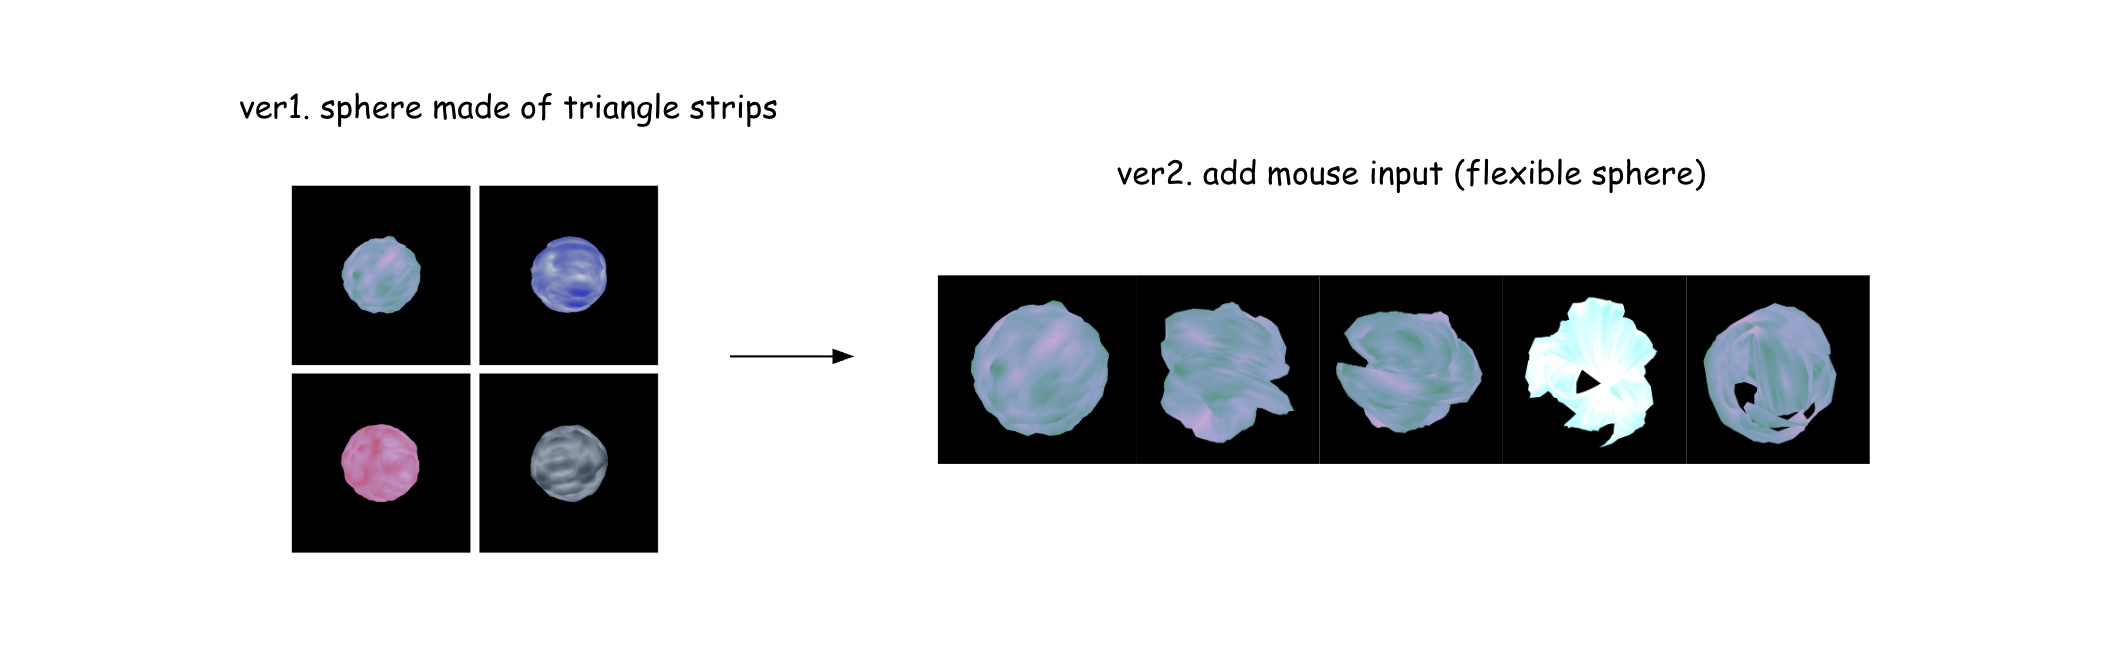
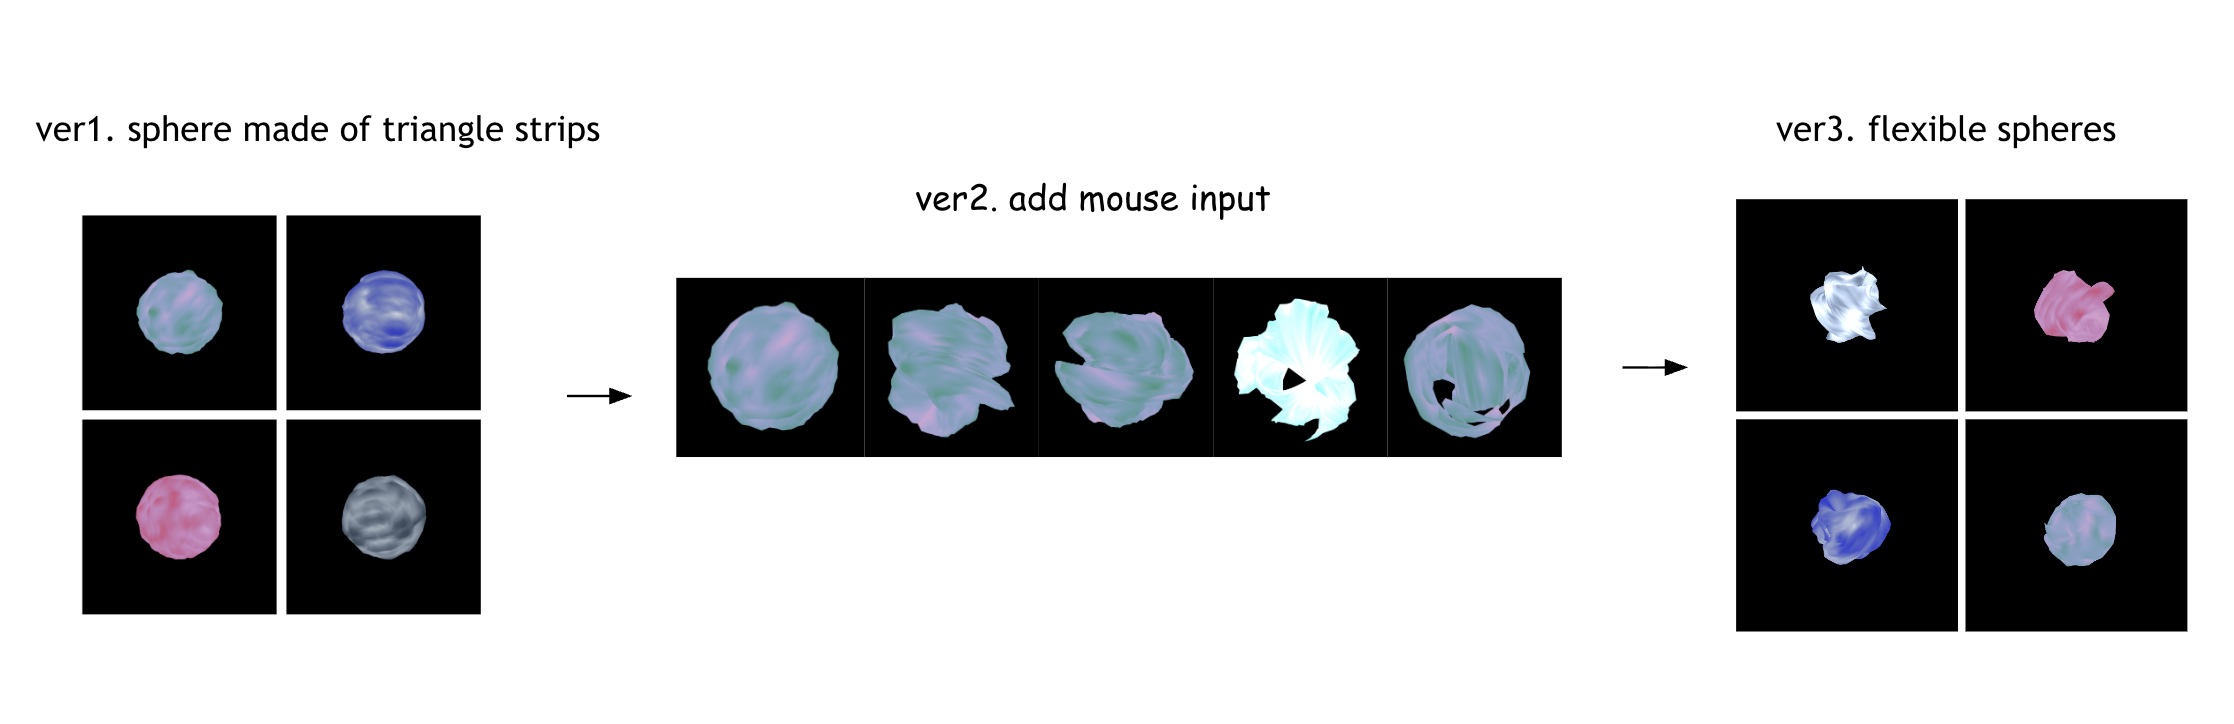
Update images

diff --git a/works/unending-rock.html b/works/unending-rock.html
@@ -32,7 +32,7 @@
                 <!-- <div id="canvas-container"></div> -->
                 <img src="../../images/initial concept.png" alt="Rocks image concept">
                 <img src="../../images/earlystages.png" alt="Rocks image early stages">
-                <img src="../../images/Unending Rock.png" alt="Rocks image">
+                <img src="../../images/rock full.png" alt="Rocks image">
             </div>
 
             <div class="art-info">
@@ -40,6 +40,7 @@
                 <p class="meta-info">2026, JavaScript, color</p>
                 <div class="description">
                     <p>A Graphical User Interface (GUI) refers to visual symbols designed to enable humans to control computers. To create a new GUI, I drew a rock using computer code. Unlike a real-world rock, this virtual rock composed of multiple triangle strips bends and distorts according to its own set of rules and external inputs (mouse position), so that it always remains in an unfinished state. Technology shapes its form and meaning through the interaction between the internal and the external, being neither absolute nor independent.</p>
+                    <p><a href="https://openprocessing.org/sketch/2993531" target="_blank" style="text-decoration: underline;">View Animation ↗</a></p>
                 </div>
             </div>
         </section>

diff --git a/index.html b/index.html
@@ -72,7 +72,7 @@
 
             <div class="content-item">
                 <a href="works/unending-rock.html">
-                    <img src="images/unending rock new.png" alt="unending rock">
+                    <img src="images/rock thumbnail.png" alt="unending rock">
                 </a>
                 <!-- <div class="caption">Rock Series</div> -->
             </div>
